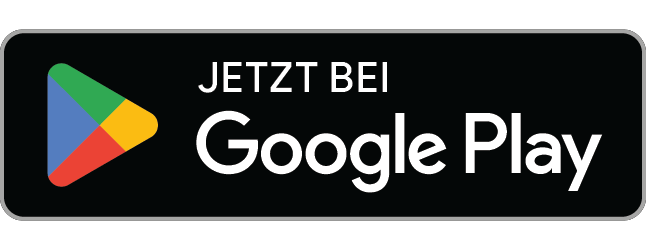
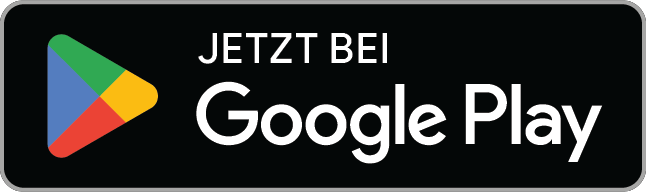
Per-locale video thumbnail (first frame) + trim Google Play badge padding
VideoSection now picks /images/video-thumb-{de,en}.jpg — extracted as the
first frame of each MP4 with ffmpeg (the white opening title rather than
YouTube's auto-pick mid-frame), so DE and EN show their respective intro.

Google Play PNG badges had ~30px transparent padding around the visible
artwork, which made them look smaller than Apple's compact SVG when both
rendered at the same height. Trimmed via PIL — both badges now sit at
matching visual height, widths differ as expected (Apple 2.99:1, Google
3.36:1).

diff --git a/src/routes/landing/components/VideoSection.svelte b/src/routes/landing/components/VideoSection.svelte
@@ -1,5 +1,6 @@
 <script lang="ts">
     import { base } from "$app/paths";
+    import LocalStorageUtil from "$lib/localStorageUtil";
     import { fetchVideo } from "$lib/strapiClient";
     import { onMount } from "svelte";
     import { inview } from "svelte-inview";
@@ -9,6 +10,7 @@
     let played = $state(false);
     let youtubeId: string = $state("");
     let videoSubline: string = $state("");
+    const locale = $derived(LocalStorageUtil.getLocale());
 
     let inView = $state(false);
 
@@ -49,7 +51,7 @@
                     class="absolute inset-0 w-full h-full cursor-pointer group"
                     aria-label="Video abspielen (lädt YouTube)">
                     <img
-                        src="{base}/images/video_thumb.jpg"
+                        src="{base}/images/video-thumb-{locale}.jpg"
                         alt=""
                         class="w-full h-full object-cover" />
                     <div class="absolute inset-0 bg-black/10 flex items-center justify-center transition group-hover:bg-black/20">
